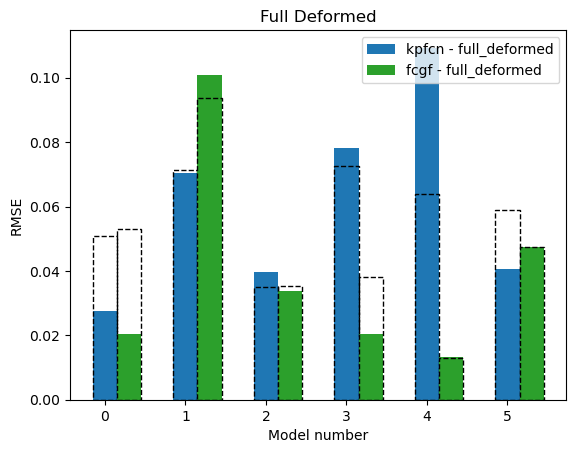
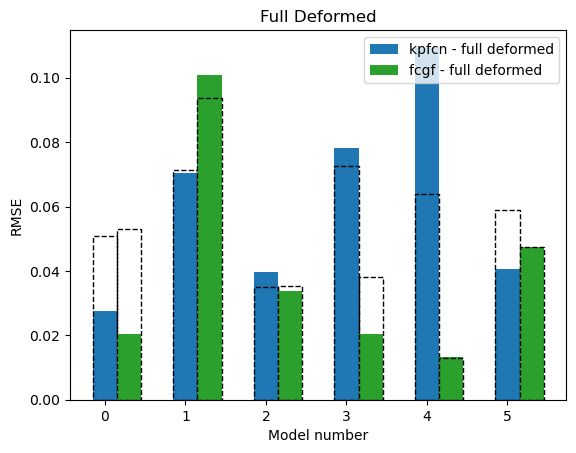
changing the plots

Changed region(s): [[0.6875, 0.0927, 0.9688, 0.1854], [0.625, 0.0927, 0.6562, 0.1854]]

diff --git a/Testing/custom_filtering/aggregate_data_custom_filtering_rmse.py b/Testing/custom_filtering/aggregate_data_custom_filtering_rmse.py
@@ -123,7 +123,7 @@ for training_data in weights:
             rmse.append(final_matrices[model_number][training_data][feature_extractor]['final'])
         
         bar = bars[count]
-        weights_legend = feature_extractor + ' - ' + training_data
+        weights_legend = feature_extractor + ' - ' + training_data.replace('_', ' ')
         plt.bar(bar, rmse, width = barWidthPlot, label = weights_legend) 
         plt.bar(bar, initial_rmse, width = barWidthPlot, fill = False, linestyle='dashed', label='_nolegend_')
         count += 1
